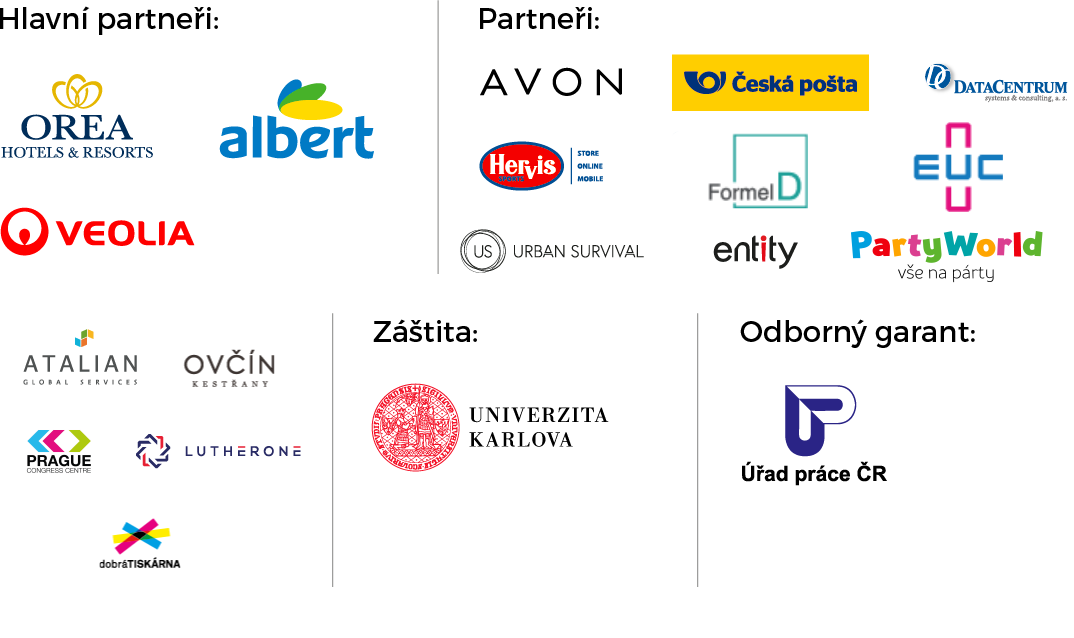
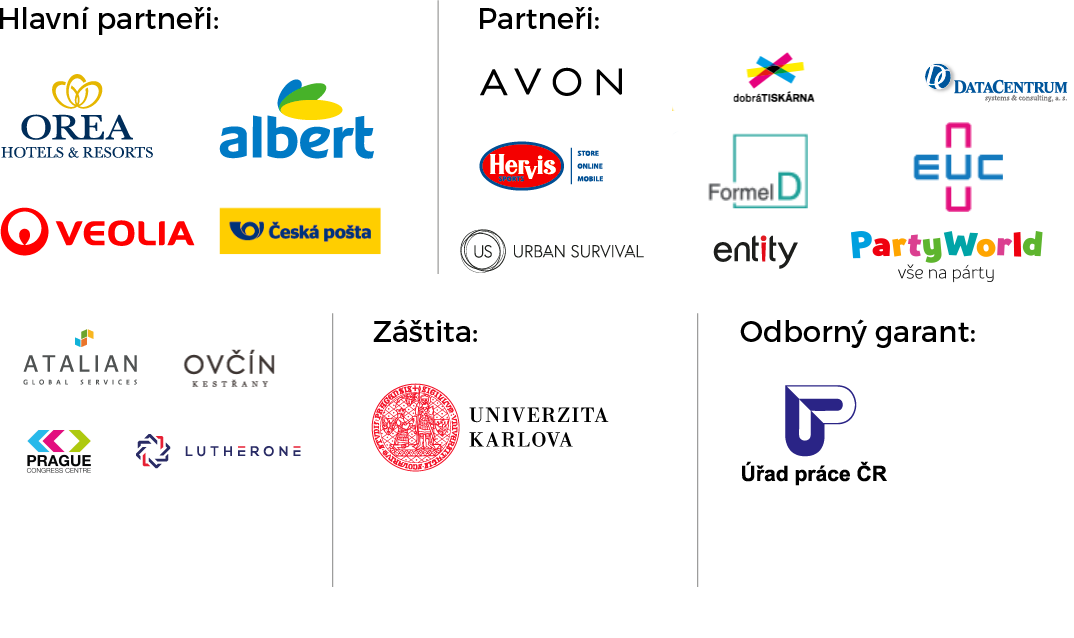
updated partners image

Changed region(s): [[0.6145, 0.0596, 0.8296, 0.1787], [0.1844, 0.2978, 0.3687, 0.4169], [0.0922, 0.8041, 0.1844, 0.8934]]

diff --git a/src/index.html b/src/index.html
@@ -616,7 +616,7 @@
                 tedy všem, kdo se na zásadní události české personalistiky podíli. Děkujeme!</p>
             <div style="position: relative">
                 <img data-src="images/logo-summit2.png" class="lozad desktop" usemap="#partneri-desktop-map">
-                <a href="https://www.veolia.cz/cs" title="Veolia" style="position: absolute; left: 0.45%; top: 72.55%; width: 8.1%; height: 17.25%; z-index: 2;"></a><a href="https://www.orea.cz/" title="Orea" style="position: absolute; left: 0.57%; top: 36.08%; width: 5.49%; height: 25.88%; z-index: 2;"></a><a href="https://www.albert.cz/" title="Albert" style="position: absolute; left: 8.49%; top: 35.29%; width: 7.64%; height: 28.24%; z-index: 2;"></a><a href="https://www.zpmvcr.cz/" title="Zdravotní pojišťovna 211" style="position: absolute; left: 18.23%; top: 30.98%; width: 9.8%; height: 28.24%; z-index: 2;"></a><a href="https://www.formeld.com/" title="Formel D" style="position: absolute; left: 18.86%; top: 69.8%; width: 4.53%; height: 21.18%; z-index: 2;"></a><a href="https://www.avon.cz/" title="Avon" style="position: absolute; left: 28.43%; top: 38.43%; width: 6.23%; height: 20%; z-index: 2;"></a><a href="https://www.partyworld.cz/"" title="Party World" style="position: absolute; left: 24.97%; top: 70.59%; width: 8.61%; height: 18.43%; z-index: 2;"></a><a href="https://www.ceskaposta.cz/" title="Česká pošta" style="position: absolute; left: 35.67%; top: 38.04%; width: 7.98%; height: 21.57%; z-index: 2;"></a><a href="https://euc.cz/" title="EUC" style="position: absolute; left: 34.82%; top: 64.71%; width: 4.64%; height: 31.37%; z-index: 2;"></a><a href="http://www.datacentrum.cz/" title="Data Centrum" style="position: absolute; left: 44.51%; top: 33.33%; width: 7.98%; height: 27.06%; z-index: 2;"></a><a href="https://www.urbansurvival.cz/" title="Urban Survival" style="position: absolute; left: 40.49%; top: 68.24%; width: 11.27%; height: 23.53%; z-index: 2;"></a><a href="https://www.hervis.cz/" title="Hervis" style="position: absolute; left: 53.06%; top: 36.08%; width: 6.34%; height: 25.49%; z-index: 2;"></a><a href="https://www.entita.cz/" title="Entity Production" style="position: absolute; left: 52.27%; top: 69.8%; width: 6.51%; height: 20.39%; z-index: 2;"></a><a href="http://www.atalian.cz/" title="Atalian" style="position: absolute; left: 60.14%; top: 36.86%; width: 7.98%; height: 26.67%; z-index: 2;"></a><a href="https://www.praguecc.cz/" title="Prague Congress Center" style="position: absolute; left: 55.34%; top: 69.8%; width: 8.36%; height: 22.35%; z-index: 2;"></a><a href="https://www.lutherone.com/" title="Lutherone" style="position: absolute; left: 59.34%; top: 69.8%; width: 10.36%; height: 22.35%; z-index: 2;"></a><a href="http://www.dobratiskarna.com/" title="Dobrá tiskárna" style="position: absolute; left: 70.67%; top: 65.88%; width: 5.61%; height: 27.45%; z-index: 2;"></a><a href="https://cuni.cz/" title="Univerzita Karlova" style="position: absolute; left: 79.56%; top: 29.41%; width: 10.14%; height: 37.25%; z-index: 2;"></a><a href="https://www.uradprace.cz/" title="Úřad práce ČR" style="position: absolute; left: 93.49%; top: 30.2%; width: 6.34%; height: 33.73%; z-index: 2;"></a><!--                <map class="partneri-desktop-map" name="partneri-desktop-map" id="partneri-desktop-map">-->
+                <a href="https://www.veolia.cz/cs" title="Veolia" style="position: absolute; left: 0.45%; top: 72.55%; width: 8.1%; height: 17.25%; z-index: 2;"></a><a href="https://www.orea.cz/" title="Orea" style="position: absolute; left: 0.57%; top: 36.08%; width: 5.49%; height: 25.88%; z-index: 2;"></a><a href="https://www.albert.cz/" title="Albert" style="position: absolute; left: 8.49%; top: 35.29%; width: 7.64%; height: 28.24%; z-index: 2;"></a><a href="https://www.zpmvcr.cz/" title="Zdravotní pojišťovna 211" style="position: absolute; left: 18.23%; top: 30.98%; width: 9.8%; height: 28.24%; z-index: 2;"></a><a href="https://www.formeld.com/" title="Formel D" style="position: absolute; left: 18.86%; top: 69.8%; width: 4.53%; height: 21.18%; z-index: 2;"></a><a href="https://www.avon.cz/" title="Avon" style="position: absolute; left: 28.43%; top: 38.43%; width: 6.23%; height: 20%; z-index: 2;"></a><a href="https://www.partyworld.cz/" title="Party World" style="position: absolute; left: 24.97%; top: 70.59%; width: 8.61%; height: 18.43%; z-index: 2;"></a><a href="https://www.ceskaposta.cz/" title="Česká pošta" style="position: absolute; left: 8.49%; top: 65.29%; width: 7.98%; height: 21.57%; z-index: 2;"></a><a href="https://euc.cz/" title="EUC" style="position: absolute; left: 34.82%; top: 64.71%; width: 4.64%; height: 31.37%; z-index: 2;"></a><a href="http://www.datacentrum.cz/" title="Data Centrum" style="position: absolute; left: 44.51%; top: 33.33%; width: 7.98%; height: 27.06%; z-index: 2;"></a><a href="https://www.urbansurvival.cz/" title="Urban Survival" style="position: absolute; left: 40.49%; top: 68.24%; width: 11.27%; height: 23.53%; z-index: 2;"></a><a href="https://www.hervis.cz/" title="Hervis" style="position: absolute; left: 53.06%; top: 36.08%; width: 6.34%; height: 25.49%; z-index: 2;"></a><a href="https://www.entita.cz/" title="Entity Production" style="position: absolute; left: 52.27%; top: 69.8%; width: 6.51%; height: 20.39%; z-index: 2;"></a><a href="http://www.atalian.cz/" title="Atalian" style="position: absolute; left: 60.14%; top: 36.86%; width: 7.98%; height: 26.67%; z-index: 2;"></a><a href="https://www.praguecc.cz/" title="Prague Congress Center" style="position: absolute; left: 55.34%; top: 69.8%; width: 8.36%; height: 22.35%; z-index: 2;"></a><a href="https://www.lutherone.com/" title="Lutherone" style="position: absolute; left: 59.34%; top: 69.8%; width: 10.36%; height: 22.35%; z-index: 2;"></a><a href="http://www.dobratiskarna.com/" title="Dobrá tiskárna" style="position: absolute; left: 70.67%; top: 65.88%; width: 5.61%; height: 27.45%; z-index: 2;"></a><a href="https://cuni.cz/" title="Univerzita Karlova" style="position: absolute; left: 79.56%; top: 29.41%; width: 10.14%; height: 37.25%; z-index: 2;"></a><a href="https://www.uradprace.cz/" title="Úřad práce ČR" style="position: absolute; left: 93.49%; top: 30.2%; width: 6.34%; height: 33.73%; z-index: 2;"></a><!--                <map class="partneri-desktop-map" name="partneri-desktop-map" id="partneri-desktop-map">-->
 <!--                    <area  alt="Orea" title="Orea" href="https://www.orea.cz/" shape="rect" coords="2,88,124,168" style="outline:none;" target="_blank"     />-->
 <!--                    <area  alt="Veolia" title="Veolia" href="https://www.veolia.cz/cs" shape="rect" coords="0,180,163,227" style="outline:none;" target="_blank"     />-->
 <!--                    <area  alt="Albert" title="Albert" href="https://www.albert.cz/" shape="rect" coords="149,88,286,166" style="outline:none;" target="_blank"     />-->
@@ -702,6 +702,8 @@
                 <area alt="" title="" href="https://www.albert.cz/" shape="rect" coords="203,63,419,189"
                       style="outline:none;" target="_blank"/>
                 <area alt="" title="" href="http://www.veolia.cz/cs" shape="rect" coords="0,188,208,274"
+                      style="outline:none;" target="_blank"/>
+                <area alt="" title="" href="http://www.ceskaposta.cz/" shape="rect" coords="203,188,419,189"
                       style="outline:none;" target="_blank"/>
                 <area alt="" title="" href="http://www.profihr.cz/" shape="rect" coords="0,388,141,474"
                       style="outline:none;" target="_blank"/>
